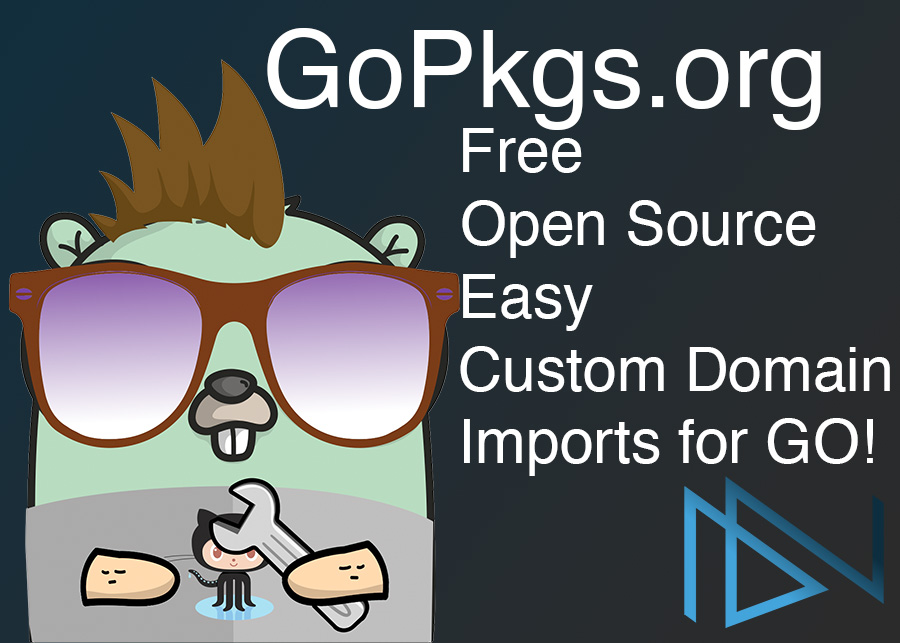
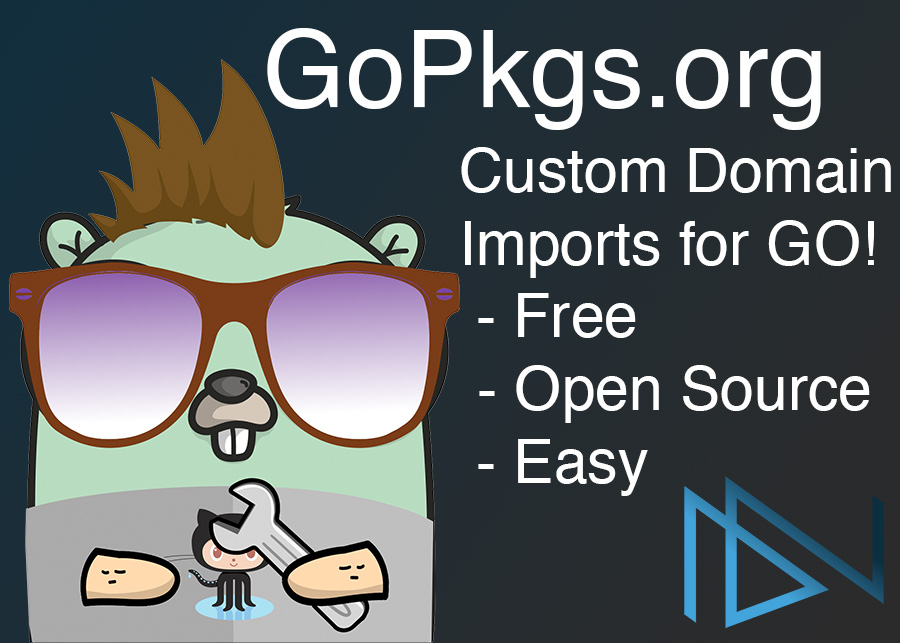
Updating the home and about pages to remove the table of content, updated social image and adding additional info about custom imports

Changed region(s): [[0.4978, 0.1866, 0.9956, 0.7776]]

diff --git a/src/pages/About/About.js b/src/pages/About/About.js
@@ -12,7 +12,6 @@ import {
 import './About.scss'
 
 import Ref from '../../components/Ref'
-import TOC from '../../components/TOC'
 
 import LanguageIcon from '@mui/icons-material/Language'
 import TwitterIcon from '@mui/icons-material/Twitter'
@@ -60,124 +59,129 @@ const About = () => {
 
     return (
         <Container sx={{ padding: '10px' }}>
-            <TOC hasToc>
-                <Ref variant="h1">What is GoPkgs.org all about?</Ref>
-                <Typography variant="body1">
-                    Go Packages (<code>gopkgs.org</code>) is a FREE service for
-                    simplifying developer setup of Go (golang) custom import
-                    paths. Normally, you would have to manually setup static
-                    hosting with proper meta tags, and maintain that site. This
-                    service allows you to setup your import paths in a simple,
-                    easy to use, repeatable, and secure way.
-                </Typography>
-                <TOC render />
-                <Ref variant="h2" className="about-heading">
-                    Creators
-                </Ref>
-                <Grid container spacing={3}>
-                    <Grid item xs={12} sm={6}>
-                        <Grid container spacing={3}>
-                            <Grid item xs={12}>
-                                <Ref variant="h3" sx={{ textAlign: 'center' }}>
-                                    Benji Vesterby
-                                </Ref>
-                            </Grid>
-                            <Grid item xs={12}>
-                                <Box fullWidth>
-                                    <Tooltip title="Website">
-                                        <IconButton
-                                            component={Link}
-                                            href="https://benjiv.com"
-                                        >
-                                            <LanguageIcon />
-                                        </IconButton>
-                                    </Tooltip>
-                                    <Tooltip title="GitHub">
-                                        <IconButton
-                                            component={Link}
-                                            href="https://github.com/benjivesterby"
-                                        >
-                                            <GitHubIcon />
-                                        </IconButton>
-                                    </Tooltip>
-                                    <Tooltip title="YouTube">
-                                        <IconButton
-                                            component={Link}
-                                            href="https://www.youtube.com/c/benjivesterby"
-                                        >
-                                            <YouTubeIcon />
-                                        </IconButton>
-                                    </Tooltip>
-                                    <Tooltip title="Twitter">
-                                        <IconButton
-                                            component={Link}
-                                            href="https://twitter.com/benjivesterby"
-                                        >
-                                            <TwitterIcon />
-                                        </IconButton>
-                                    </Tooltip>
-                                    <Tooltip title="Reddit">
-                                        <IconButton
-                                            component={Link}
-                                            href="https://www.reddit.com/user/nauntilus"
-                                        >
-                                            <RedditIcon />
-                                        </IconButton>
-                                    </Tooltip>
-                                </Box>
-                            </Grid>
+            <Ref variant="h1">What is GoPkgs.org all about?</Ref>
+            <Typography variant="body1">
+                Go Packages (<code>gopkgs.org</code>) is a FREE service for
+                simplifying developer setup of Go (golang) custom import paths.
+                Normally, you would have to manually setup static hosting with
+                proper meta tags, and maintain that site. This service allows
+                you to setup your import paths in a simple, easy to use,
+                repeatable, and secure way.
+            </Typography>
+            <Ref variant="h2" className="about-heading">
+                Creators
+            </Ref>
+            <Grid container spacing={3}>
+                <Grid item xs={12} sm={6}>
+                    <Grid container spacing={3}>
+                        <Grid item xs={12}>
+                            <Ref variant="h3" sx={{ textAlign: 'center' }}>
+                                Benji Vesterby
+                            </Ref>
                         </Grid>
-                    </Grid>
-                    <Grid item xs={12} sm={6}>
-                        <Grid container spacing={3}>
-                            <Grid item xs={12}>
-                                <Ref variant="h3" sx={{ textAlign: 'center' }}>
-                                    Adam Schaal
-                                </Ref>
-                            </Grid>
-                            <Grid item xs={12}>
-                                <Box fullWidth>
-                                    <Tooltip title="Website">
-                                        <IconButton
-                                            component={Link}
-                                            href="https://kernelcon.org/"
-                                        >
-                                            <LanguageIcon />
-                                        </IconButton>
-                                    </Tooltip>
-                                    <Tooltip title="GitHub">
-                                        <IconButton
-                                            component={Link}
-                                            href="https://github.com/clevernyyyy"
-                                        >
-                                            <GitHubIcon />
-                                        </IconButton>
-                                    </Tooltip>
-                                    {/* <Tooltip title="YouTube">
-                                        <IconButton component={Link} href="">
-                                            <YouTubeIcon />
-                                        </IconButton>
-                                    </Tooltip> */}
-                                    <Tooltip title="Twitter">
-                                        <IconButton
-                                            component={Link}
-                                            href="https://twitter.com/clevernyyyy"
-                                        >
-                                            <TwitterIcon />
-                                        </IconButton>
-                                    </Tooltip>
-                                    {/* <Tooltip title="Reddit">
-                                        <IconButton component={Link} href="">
-                                            <RedditIcon />
-                                        </IconButton>
-                                    </Tooltip> */}
-                                </Box>
-                            </Grid>
+                        <Grid
+                            item
+                            xs={12}
+                            sx={{ display: 'flex', justifyContent: 'center' }}
+                        >
+                            <Box fullWidth>
+                                <Tooltip title="Website">
+                                    <IconButton
+                                        component={Link}
+                                        href="https://benjiv.com"
+                                    >
+                                        <LanguageIcon />
+                                    </IconButton>
+                                </Tooltip>
+                                <Tooltip title="GitHub">
+                                    <IconButton
+                                        component={Link}
+                                        href="https://github.com/benjivesterby"
+                                    >
+                                        <GitHubIcon />
+                                    </IconButton>
+                                </Tooltip>
+                                <Tooltip title="YouTube">
+                                    <IconButton
+                                        component={Link}
+                                        href="https://www.youtube.com/c/benjivesterby"
+                                    >
+                                        <YouTubeIcon />
+                                    </IconButton>
+                                </Tooltip>
+                                <Tooltip title="Twitter">
+                                    <IconButton
+                                        component={Link}
+                                        href="https://twitter.com/benjivesterby"
+                                    >
+                                        <TwitterIcon />
+                                    </IconButton>
+                                </Tooltip>
+                                <Tooltip title="Reddit">
+                                    <IconButton
+                                        component={Link}
+                                        href="https://www.reddit.com/user/nauntilus"
+                                    >
+                                        <RedditIcon />
+                                    </IconButton>
+                                </Tooltip>
+                            </Box>
                         </Grid>
                     </Grid>
                 </Grid>
-                <div>{aboutInfo}</div>
-            </TOC>
+                <Grid item xs={12} sm={6}>
+                    <Grid container spacing={3}>
+                        <Grid item xs={12}>
+                            <Ref variant="h3" sx={{ textAlign: 'center' }}>
+                                Adam Schaal
+                            </Ref>
+                        </Grid>
+                        <Grid
+                            item
+                            xs={12}
+                            sx={{ display: 'flex', justifyContent: 'center' }}
+                        >
+                            <Box fullWidth>
+                                <Tooltip title="Website">
+                                    <IconButton
+                                        component={Link}
+                                        href="https://kernelcon.org/"
+                                    >
+                                        <LanguageIcon />
+                                    </IconButton>
+                                </Tooltip>
+                                <Tooltip title="GitHub">
+                                    <IconButton
+                                        component={Link}
+                                        href="https://github.com/clevernyyyy"
+                                    >
+                                        <GitHubIcon />
+                                    </IconButton>
+                                </Tooltip>
+                                {/* <Tooltip title="YouTube">
+                                        <IconButton component={Link} href="">
+                                            <YouTubeIcon />
+                                        </IconButton>
+                                    </Tooltip> */}
+                                <Tooltip title="Twitter">
+                                    <IconButton
+                                        component={Link}
+                                        href="https://twitter.com/clevernyyyy"
+                                    >
+                                        <TwitterIcon />
+                                    </IconButton>
+                                </Tooltip>
+                                {/* <Tooltip title="Reddit">
+                                        <IconButton component={Link} href="">
+                                            <RedditIcon />
+                                        </IconButton>
+                                    </Tooltip> */}
+                            </Box>
+                        </Grid>
+                    </Grid>
+                </Grid>
+            </Grid>
+            <div>{aboutInfo}</div>
         </Container>
     )
 }

diff --git a/src/pages/Home/Home.js b/src/pages/Home/Home.js
@@ -1,50 +1,63 @@
 import React from 'react'
 import { Container, Typography } from '@mui/material'
 import Ref from '../../components/Ref'
-import TOC from '../../components/TOC'
 
 const Home = () => {
     return (
         <Container>
-            <TOC>
-                <Ref variant="h1">Go Custom Domain Import Service</Ref>
-                <Ref variant="h2">
-                    What is a custom domain import (vanity import) in Go?
-                </Ref>
-                <Typography variant="body1">
-                    Import paths in Go applications use URLs to refer to modules
-                    and packages (the standard library is an exception). These
-                    import paths generally start with `github.com` or
-                    `gitlab.com` due to the fact that most modules/packages are
-                    hosted on GitHub or GitLab. If you want to use a custom
-                    domain, instead of `github.com`, `gitlab.com`, etc..., you
-                    can, but it requires work to properly setup the import
-                    paths, host the appropriate meta-tags, DNS records, and
-                    manage new modules.
-                </Typography>
-                <Ref variant="h2">
-                    What are the benefits of custom domain imports?
-                </Ref>
-                <Typography variant="body1">
-                    Custom domain imports provide several benefits to the Go
-                    community: - Portability of Maintainership - Portability of
-                    Source Code - Stable Import Paths - Shorter Import Paths -
-                    Branding Support
-                </Typography>
-                <Ref variant="h2">How do I use custom domain imports?</Ref>
-                <Typography variant="body1">
-                    Login to `https://gopkgs.org` and create and add a domain.
-                    Following the documentation for [setting up a new
-                    domain](/docs#setting-up-a-new-domain), you can add your
-                    domain, go through the verification process and start adding
-                    modules.
-                </Typography>
-                <Ref variant="h2"> Can I use my own domain name?</Ref>
-                <Typography variant="body1">
-                    Absolutely! You can use your own domain name and add your
-                    modules.
-                </Typography>
-            </TOC>
+            <Ref variant="h1">Go Custom Domain Import Service</Ref>
+            <Ref variant="h2">
+                What is a custom domain import (vanity import) in Go?
+            </Ref>
+            <Typography variant="body1">
+                Import paths in Go applications use URLs to refer to modules and
+                packages (the standard library is an exception). These import
+                paths generally start with `github.com` or `gitlab.com` due to
+                the fact that most modules/packages are hosted on GitHub or
+                GitLab. If you want to use a custom domain, instead of
+                `github.com`, `gitlab.com`, etc..., you can, but it requires
+                work to properly setup the import paths, host the appropriate
+                meta-tags, DNS records, and manage new modules.
+            </Typography>
+            <Ref variant="h2">
+                What are the benefits of custom domain imports?
+            </Ref>
+            <Typography variant="body1">
+                Custom domain imports provide several benefits to the Go
+                community: - Portability of Maintainership - Portability of
+                Source Code - Stable Import Paths - Shorter Import Paths -
+                Branding Support
+            </Typography>
+            <Ref variant="h2">How do I use custom domain imports?</Ref>
+            <Typography variant="body1">
+                You can only use the custom import once you've followed the{' '}
+                <a href="/docs">documentation</a> to add and verify your domain
+                and have added a module.
+                <br />
+                <br />
+                If your custom module is <code>go.example.com/mymodule</code>,
+                you can import it using the following import path:
+                <br />
+                <br />
+                <code>import "go.example.com/mymodule"</code>
+            </Typography>
+            <Ref variant="h2">How do custom imports work?</Ref>
+            <Typography variant="body1">
+                Custom imports in Go are handled by the Go toolchain by querying
+                the domain in the import and passing a query string of{' '}
+                <code>?go-get=1</code> to the domain. If the URL contains a meta
+                tag with the <code>go-import</code> attribute, the toolchain
+                will use the configuration to redirect the import and pull the
+                module from the configured version control system.
+                <br />
+                <br />
+                Because the <code>go-get</code> query string is used by the
+                toolchain, gopkgs will host the proper meta tag for the module
+                when that query string is used. If you navigate to the module's
+                import path, without the <code>go-get</code> query string, the
+                gopkgs server will redirect to the module's domain URL if it is
+                configured on the module.
+            </Typography>
         </Container>
     )
 }
